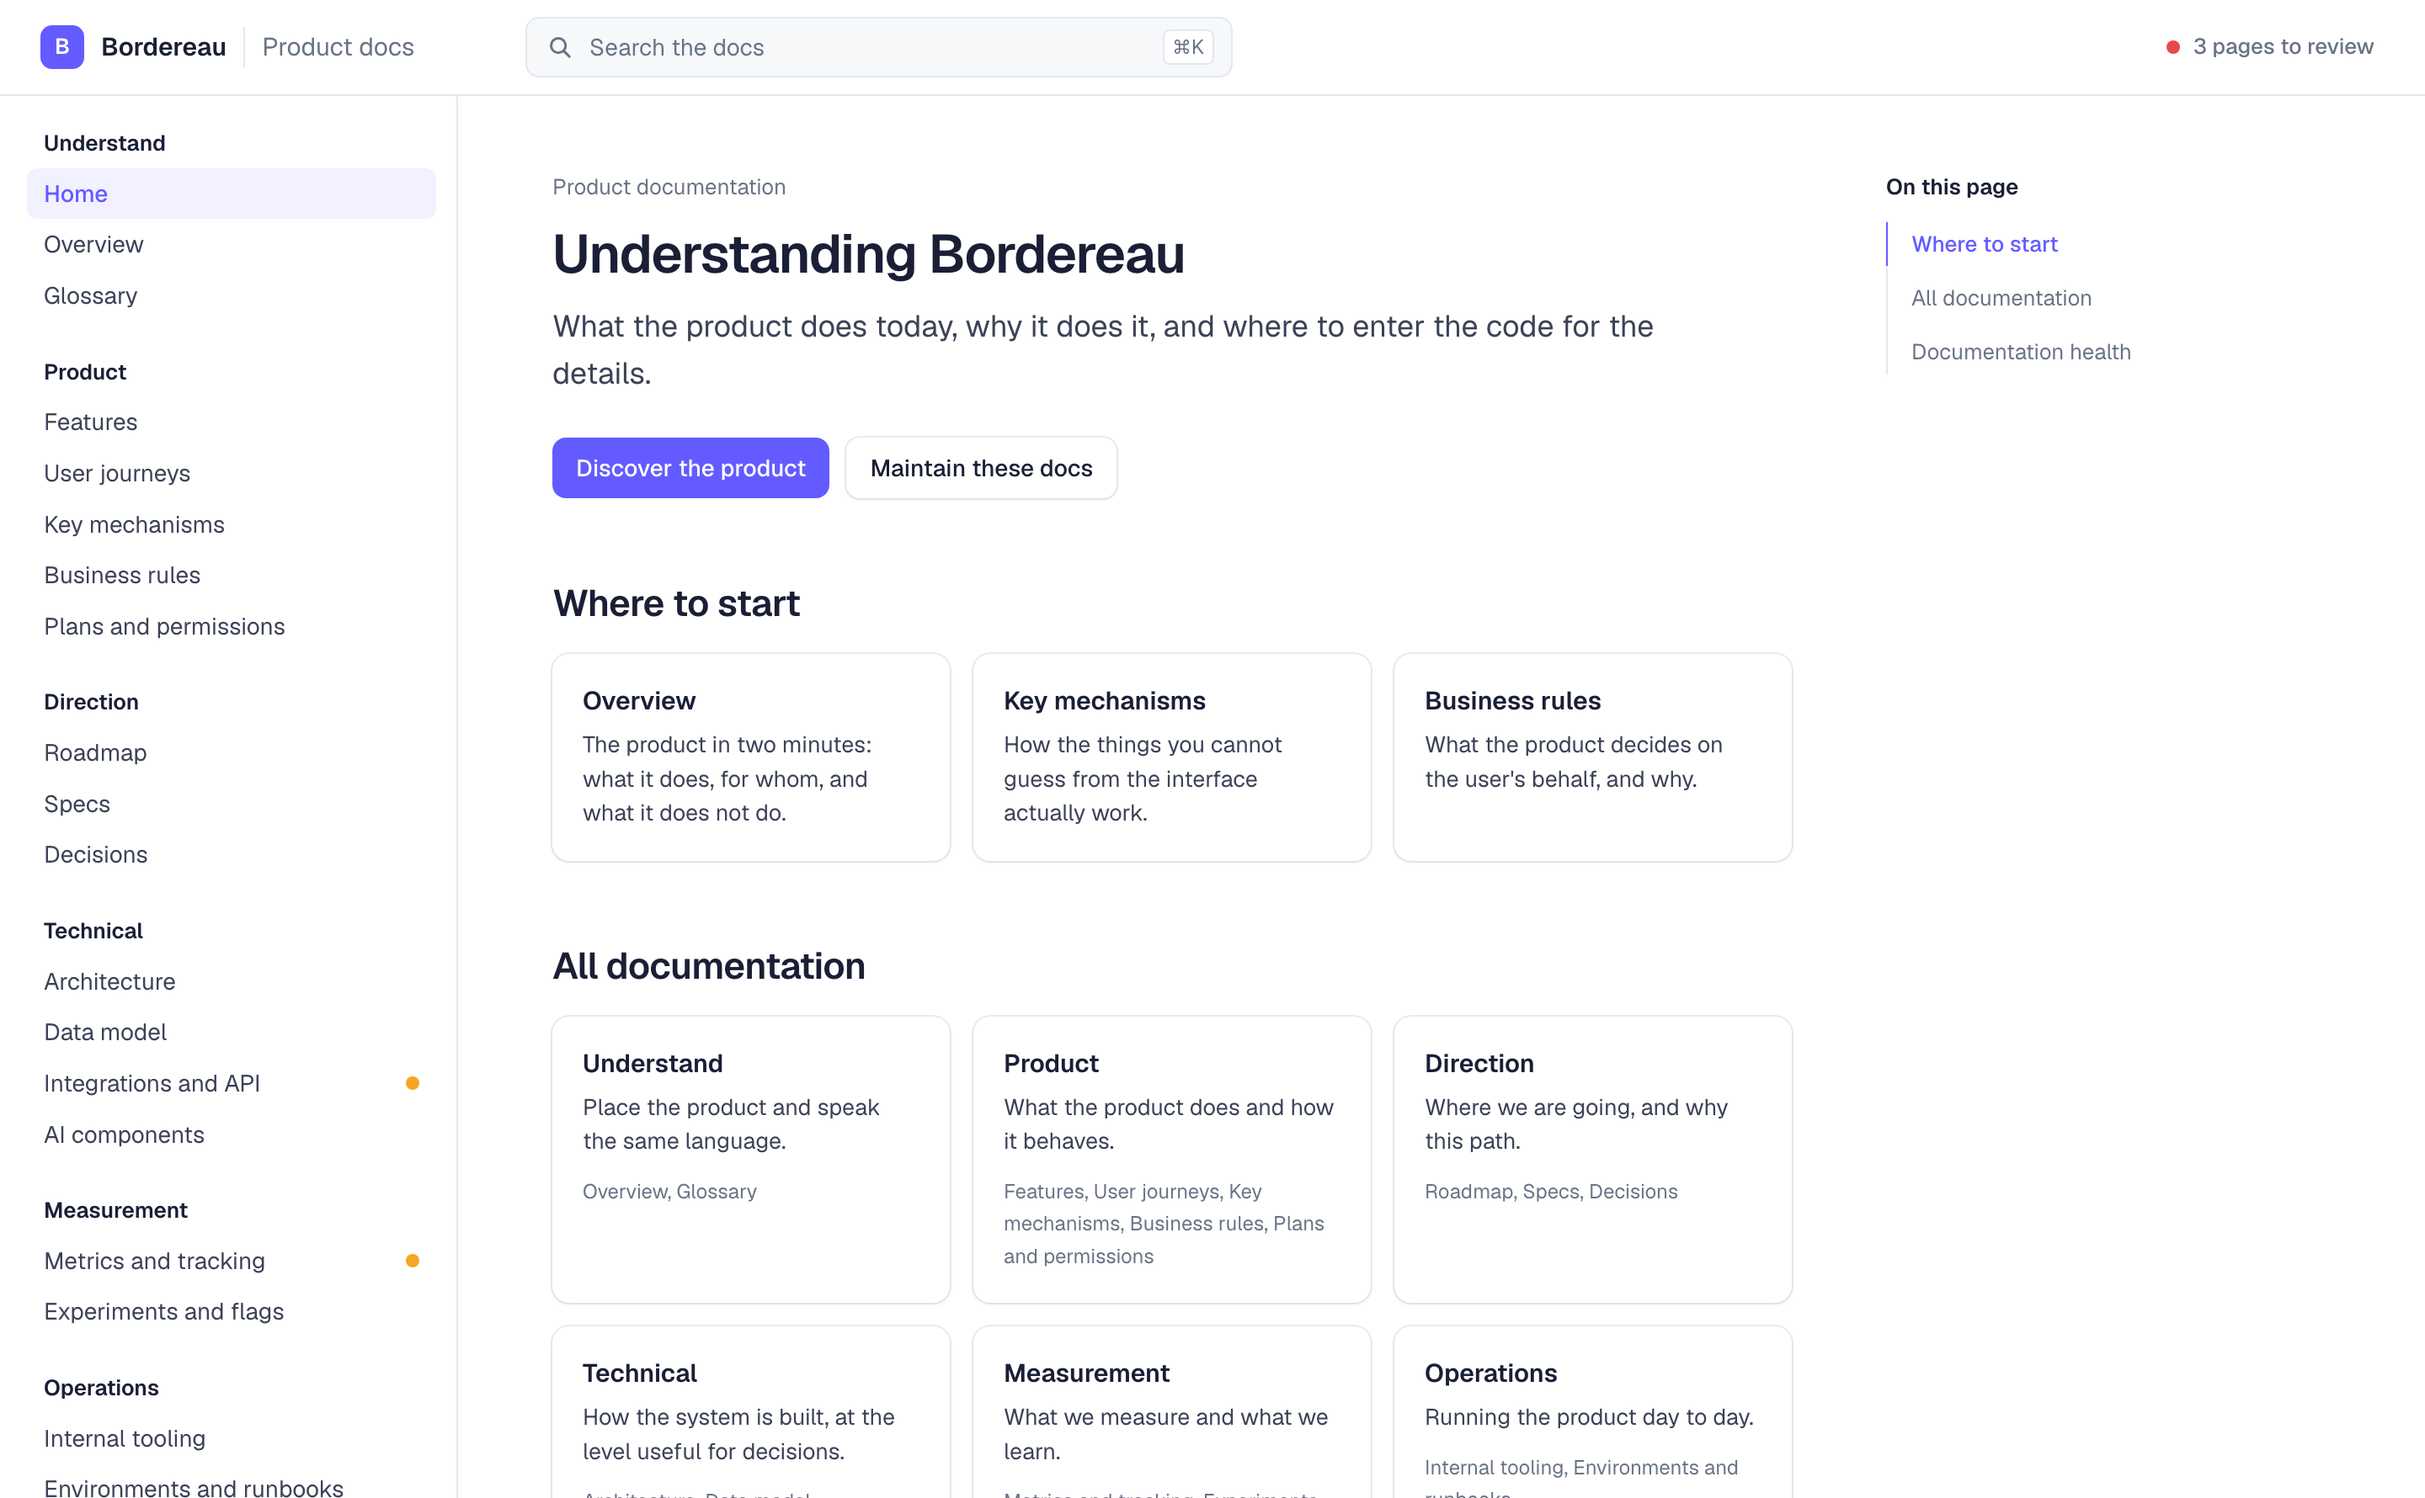
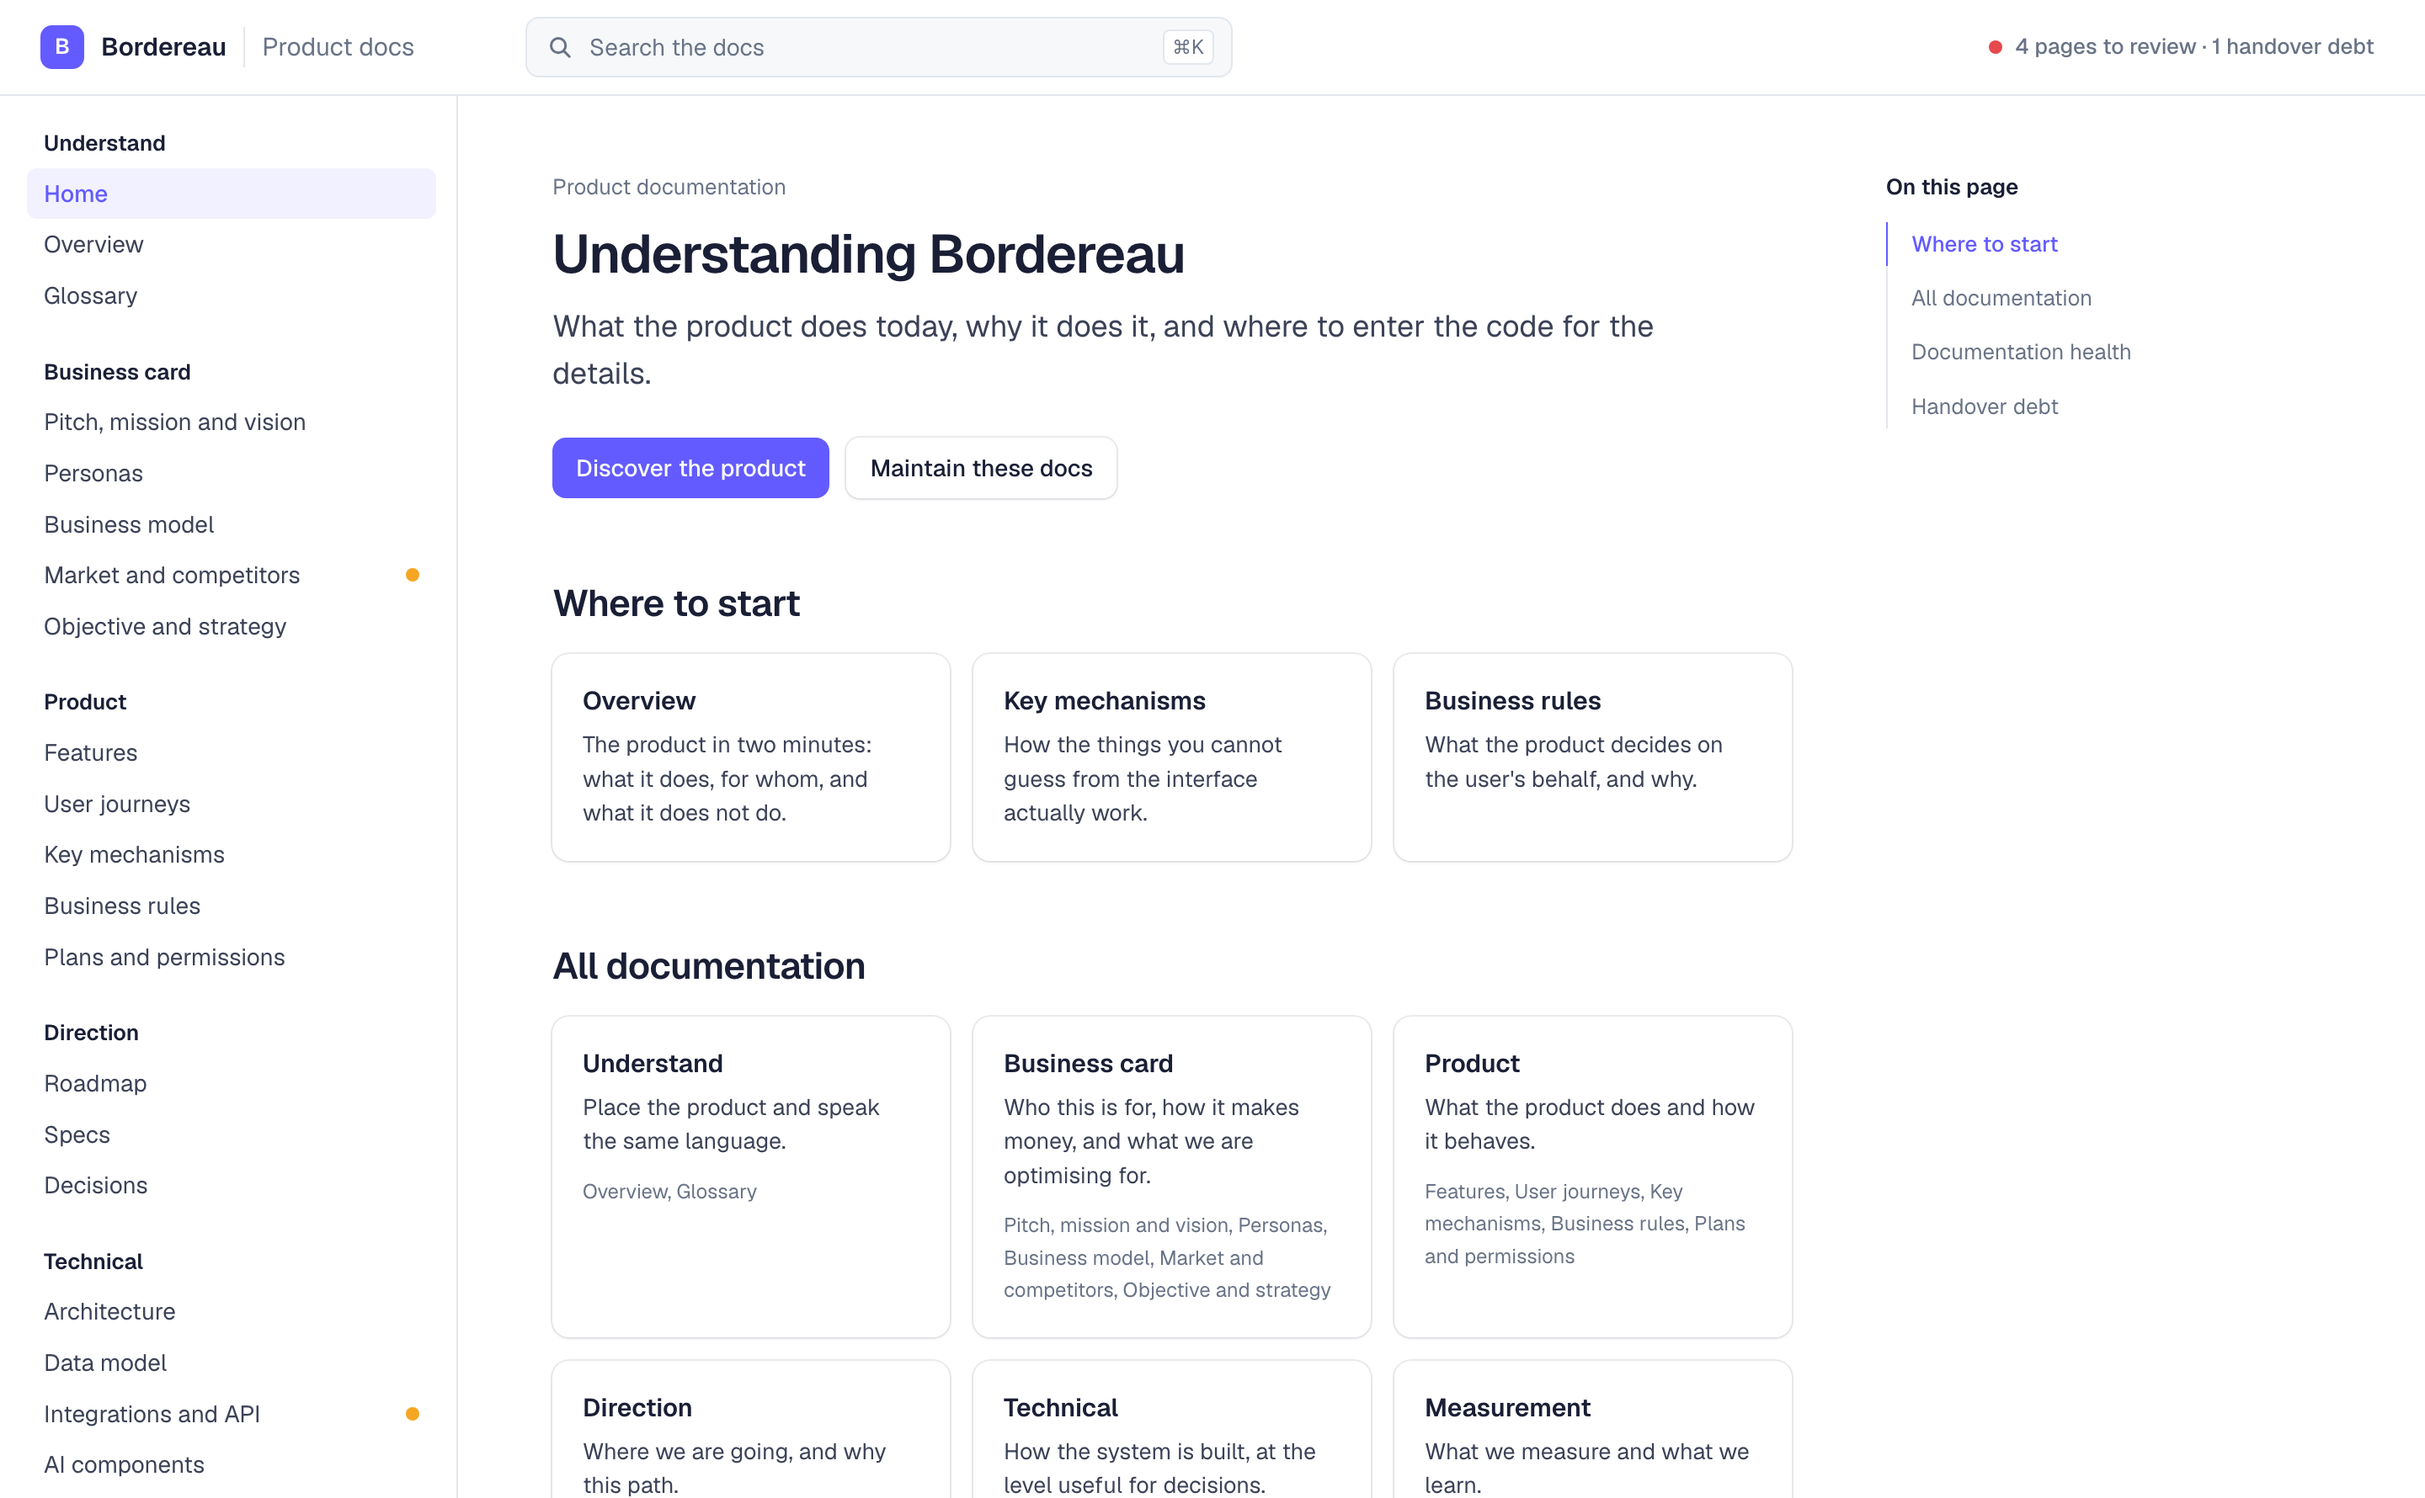
Regenerate every screenshot from the current template
The images in the README predated the handover work and the business card: no
Business card group in the sidebar, a top bar counting three pages to review and
no handover debt, and nothing at all showing the one thing the new section talks
about.

All eight are rendered from assets/template.html itself at 1440x890 with a 2x
scale factor, guidance boxes hidden, so they stay a faithful picture of what the
skill actually ships rather than a photo of an older version.

Two are new: the strategy page, which is what the README's business card section
was describing without showing, and personas. The rest are the previous five,
renumbered so the files follow the order they appear in.

diff --git a/README.md b/README.md
@@ -69,10 +69,21 @@ It's not decoration. Every spec carries a line saying **how it serves that objec
 the deliberate exception, and the audit pass reports roadmap rows that don't. Same idea as the
 future changelog, one level up: if you can't say what a project is for, it isn't ready. 🧭
 
+<img src="docs/screenshots/02-strategy.png" alt="Objective and strategy page showing a single retention objective and why the other three levers were ruled out" width="100%">
+
+The table under it is the part teams skip and then miss: **why not the other three**, with what would
+promote each one. It's what stops the objective quietly becoming two.
+
 None of this is in your repo, so the skill interviews you — starting from what your own landing
 page, pricing config and import features say about you, because people correct a wrong draft far
 better than they fill a blank form. Competitors get a real web search, each row dated and sourced,
 and the list comes back to you to confirm: a search returns the loudest, not the closest. 🔍
+
+Personas get the same treatment — built on the day that brings someone and on what they use today
+instead of you, never on demographics. And the half everyone forgets: **who asks for the product
+that you deliberately don't serve**, with what would make you revisit. 🚫
+
+<img src="docs/screenshots/03-personas.png" alt="Personas page with two personas and the evidence behind each" width="100%">
 
 ### The page that earns the whole thing: business rules
 
@@ -80,14 +91,14 @@ An identifier that never gets reused, the intent in one verifiable sentence, **t
 that implements it, and the test that proves it. Without this page those rules only exist as
 scattered `if` statements. 🔒
 
-<img src="docs/screenshots/02-business-rules.png" alt="Business rules page with BR-001 and BR-002" width="100%">
+<img src="docs/screenshots/04-business-rules.png" alt="Business rules page with BR-001 and BR-002" width="100%">
 
 ### Mechanisms, one screen each
 
 In short / how it unfolds / special cases / why it's built this way / where to enter the code. If it
 runs past a screen, you're copying the implementation and the skill says so. 🧩
 
-<img src="docs/screenshots/03-mechanisms.png" alt="Key mechanisms page showing the invoice lifecycle" width="100%">
+<img src="docs/screenshots/05-mechanisms.png" alt="Key mechanisms page showing the invoice lifecycle" width="100%">
 
 ### A roadmap that reads itself (and yes, dark mode 🌙)
 
@@ -95,7 +106,7 @@ One row per live project, in priority order. Rank, project name and spec status 
 the spec pages — you write the problem, the metric and the horizon. Reordering the rows *is* how
 priority changes.
 
-<img src="docs/screenshots/04-roadmap-dark.png" alt="Roadmap page in dark mode" width="100%">
+<img src="docs/screenshots/06-roadmap-dark.png" alt="Roadmap page in dark mode" width="100%">
 
 ### Every spec ships with its announcement 📣
 
@@ -116,7 +127,7 @@ lines shows up as **handover debt** on the home page, under the project's name. 
 
 ### ⌘K search across pages, rules, decisions and sections
 
-<img src="docs/screenshots/05-search.png" alt="Search palette open with results across rules and decisions" width="100%">
+<img src="docs/screenshots/07-search.png" alt="Search palette open with results across rules and decisions" width="100%">
 
 ### Docs that display their own confidence 🚦
 
@@ -124,7 +135,7 @@ Every page declares what triggers an update, where the details live, and when it
 against the code. The register on the home page is the dashboard — and the header shows the count of
 pages needing review at all times. Stale docs stop being invisible.
 
-<img src="docs/screenshots/06-health.png" alt="Documentation health register listing every page with its status" width="100%">
+<img src="docs/screenshots/08-health.png" alt="Documentation health register listing every page with its status" width="100%">
 
 ## 🧠 The one rule that shapes everything
 
@@ -470,6 +481,7 @@ metadata. Open it with a double-click, commit it with the code, diff it in a PR.
 ### 20 September 2026
 
 - 🃏 A business card: who it's for, how it makes money, where the market is
+- 📸 All the screenshots regenerated from the current template
 - 🎯 One objective — not two — and every spec says how it serves it
 - 🔍 Competitors researched on the web, each row dated and sourced
 - ✋ A pivot never shows up in a diff, so the skill asks before it writes
